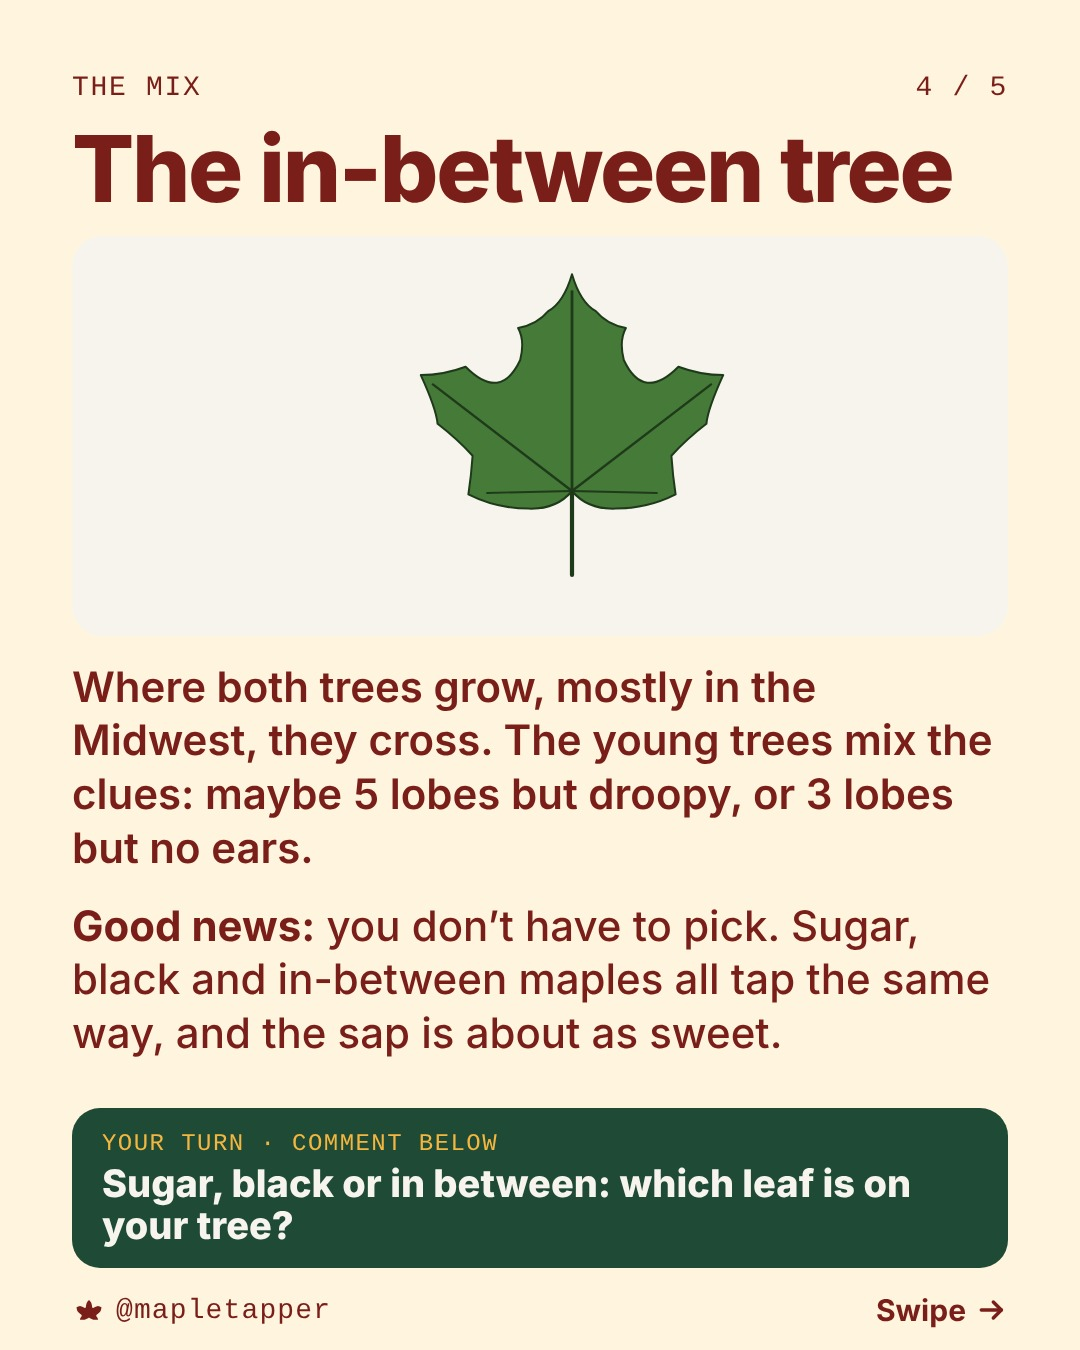
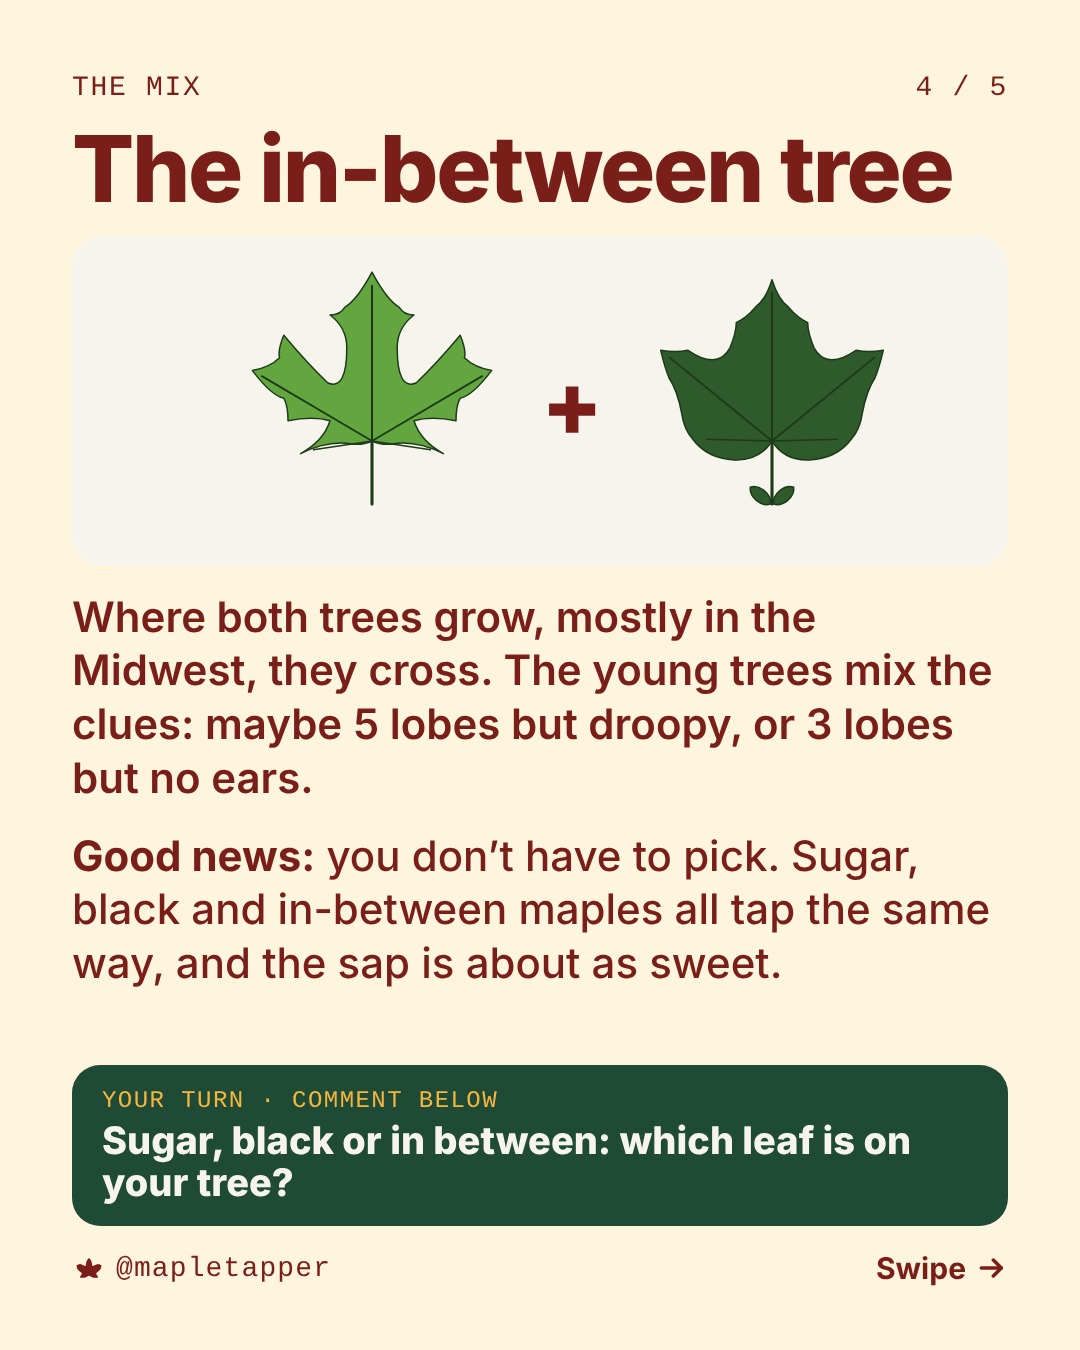
Sugar vs black maple post: distinct leaf drawings (5 pointed lobes vs 3 broad lobes)
Claude-Session: https://claude.ai/code/session_017NLj45a1qDV5TV81jo9qe1

Changed region(s): [[0.0611, 0.1867, 0.9472, 0.9956]]

diff --git a/studio/maples3.py b/studio/maples3.py
@@ -12,12 +12,14 @@ from closing import card
 from blackmaple01 import HALF as BLACK, YS
 
 M, CR, G, R = C["maroon"], C["cream"], C["gold"], C["red"]
-SUGAR = [("Q", 0.10, 0.06, 0.26, 0.06), ("Q", 0.46, 0.07, 0.72, 0.06), ("Q", 0.60, -0.08, 0.56, -0.20),
-         ("Q", 0.74, -0.22, 0.94, -0.30), ("Q", 0.92, -0.40, 1.10, -0.66), ("Q", 0.92, -0.68, 0.72, -0.76),
-         ("Q", 0.50, -0.50, 0.34, -0.82), ("Q", 0.33, -0.93, 0.43, -1.00), ("Q", 0.26, -1.00, 0.18, -1.08),
-         ("Q", 0.06, -1.12, 0.0, -1.30)]
-MIX = [("Q",) + tuple((a + b) / 2 for a, b in zip(s[1:], k[1:])) for s, k in zip(SUGAR, BLACK)]
-GREENS = {"sugar": "#4F8A3C", "mix": "#467A38", "black": "#3A6832"}
+# Sugar maple: 5 separate pointed lobes, deep rounded U notches, a few pointed teeth, nearly flat base.
+SUGAR = [("Q", 0.10, 0.04, 0.22, 0.02), ("Q", 0.44, 0.00, 0.68, 0.10), ("Q", 0.46, 0.00, 0.40, -0.16),
+         ("Q", 0.56, -0.20, 0.80, -0.16), ("Q", 0.80, -0.28, 0.84, -0.34), ("Q", 0.96, -0.36, 1.14, -0.56),
+         ("Q", 0.98, -0.58, 0.88, -0.66), ("Q", 0.90, -0.72, 0.84, -0.84), ("Q", 0.62, -0.62, 0.42, -0.46),
+         ("Q", 0.24, -0.40, 0.24, -0.74), ("Q", 0.24, -0.90, 0.40, -1.00), ("Q", 0.30, -1.00, 0.26, -1.06),
+         ("Q", 0.14, -1.12, 0.0, -1.34)]
+VT = {id(SUGAR): ((1.14, -0.56), (0.68, 0.10)), id(BLACK): ((1.06, -0.72), (0.76, -0.02))}
+GREENS = {"sugar": "#63A63F", "black": "#2F5A2B"}
 VEIN = "#1E3A1A"
 
 
@@ -31,10 +33,10 @@ def leaf(half, u, ox, oy, fill, ears=False, stem=0.75):
         d.append("Q%s %s" % (P(-c[1], c[2]), P(-ex, ey)))
     blade = f'<path d="{" ".join(d)} Z" fill="{fill}" stroke="{VEIN}" style="stroke-width:{f(u * 0.014)};stroke-linejoin:round"></path>'
     ln = lambda a, b, w: f'<path d="M{P(*a)} L{P(*b)}" stroke="{VEIN}" fill="none" style="stroke-width:{f(u * w)};stroke-linecap:round"></path>'
-    tip, lat, bas = half[-1], half[4], half[1]
+    tip = half[-1]; lat, bas = VT[id(half)]
     veins = ln((0, 0), (0, tip[4] * 0.92), 0.02)
     for sg in (1, -1):
-        veins += ln((0, 0), (sg * lat[3] * 0.92, lat[4] * 0.92), 0.017) + ln((0, 0), (sg * bas[3] * 0.82, bas[4] * 0.6), 0.013)
+        veins += ln((0, 0), (sg * lat[0] * 0.92, lat[1] * 0.92), 0.017) + ln((0, 0), (sg * bas[0] * 0.82, bas[1] * 0.7), 0.013)
     by = oy + stem * u
     stm = f'<path d="M{f(ox)} {f(oy)} L{f(ox)} {f(by)}" stroke="{VEIN}" fill="none" style="stroke-width:{f(u * 0.03)};stroke-linecap:round"></path>'
     ear = ""
@@ -49,13 +51,17 @@ def svg(w, h, inner, extra=""):
 
 
 def slide1():
-    row = (leaf(SUGAR, 150, 190, 340, GREENS["sugar"]) + leaf(MIX, 150, 540, 340, GREENS["mix"]) + leaf(BLACK, 150, 890, 340, GREENS["black"], ears=True))
-    labels = "".join(f'<div style="position: absolute; left: {x - 150}px; top: 1030px; width: 300px; text-align: center; font-family: {DISPLAY}; '
-                     f'font-weight: 800; font-size: 40px; color: {NAVY}">{t}</div>' for x, t in ((195, "Sugar"), (540, "In between"), (885, "Black")))
+    row = leaf(SUGAR, 205, 285, 400, GREENS["sugar"]) + leaf(BLACK, 205, 795, 400, GREENS["black"], ears=True)
+    def lab(x, name, l1, l2):
+        return (f'<div style="position: absolute; left: {x - 240}px; top: 1010px; width: 480px; text-align: center; color: {NAVY}">'
+                f'<div style="font-family: {DISPLAY}; font-weight: 800; font-size: 50px; line-height: 1">{name}</div>'
+                f'<div style="font-family: {DISPLAY}; font-weight: 600; font-size: 34px; line-height: 1.2; margin-top: 8px">{l1}<br>{l2}</div></div>')
     inner = (f'<div style="position: absolute; left: 56px; top: 60px">{tag("Leaf detective", NAVY, G, 30)}</div>'
-             f'<div style="position: absolute; left: 56px; top: 140px; width: 960px">' + headline("Sugar maple,<br>black maple,<br>or in between?", 104, NAVY, chk="title") + "</div>"
-             + svg(1080, 520, row, "; position: absolute; left: 0; top: 520px") + labels + handle(NAVY) + logo_badge(bg="#FFFFFF"))
-    return rootdiv(SKY, inner), "Sugar maple, black maple, or in between?"
+             f'<div style="position: absolute; left: 56px; top: 140px; width: 960px">' + headline("Sugar maple or<br>black maple?", 112, NAVY, chk="title") + "</div>"
+             + svg(1080, 620, row, "; position: absolute; left: 0; top: 400px")
+             + lab(285, "Sugar", "5 pointed lobes", "deep notches") + lab(795, "Black", "3 broad lobes", "shallow notches")
+             + handle(NAVY) + logo_badge(bg="#FFFFFF", size=120, bottom=36))
+    return rootdiv(SKY, inner), "Sugar maple or black maple?"
 
 
 def profile(n, kick, head, half, fill, ears, items, bg, note=None):
@@ -74,7 +80,7 @@ def profile(n, kick, head, half, fill, ears, items, bg, note=None):
 
 def slide2():
     return profile(2, "The classic", "Sugar maple", SUGAR, GREENS["sugar"], False,
-                   ["Usually 5 lobes", "Deep, rounded U-shaped notches", "Leaf lies flat", "Stem base is bare: no “ears”"], CR), "Sugar maple leaf"
+                   ["5 pointed lobes", "Deep, rounded U-shaped notches", "Leaf lies flat", "Stem base is bare: no “ears”"], CR), "Sugar maple leaf"
 
 
 def slide3():
@@ -83,8 +89,9 @@ def slide3():
 
 
 def slide4():
-    pic = (f'<div data-chk="pic" style="height: 400px; border-radius: 30px; background: {SNOW}; flex: none; position: relative; overflow: hidden">'
-           + svg(1000, 400, leaf(MIX, 140, 500, 255, GREENS["mix"], stem=0.6)) + "</div>")
+    pic = (f'<div data-chk="pic" style="height: 330px; border-radius: 30px; background: {SNOW}; flex: none; position: relative; overflow: hidden">'
+           + svg(1000, 330, leaf(SUGAR, 105, 300, 205, GREENS["sugar"], stem=0.6) + leaf(BLACK, 105, 700, 205, GREENS["black"], ears=True, stem=0.6)
+                 + f'<text x="500" y="200" text-anchor="middle" style="font-family: {DISPLAY}; font-weight: 800; font-size: 90px; fill: {M}">+</text>') + "</div>")
     cta = (f'<div data-chk="cta" style="background: {PINE}; color: {SNOW}; border-radius: 28px; padding: 22px 30px">'
            f'<div style="font-family: {TYPE}; font-size: 24px; letter-spacing: .06em; text-transform: uppercase; color: {G}">Your turn · comment below</div>'
            f'<div style="font-family: {DISPLAY}; font-weight: 800; font-size: 38px; line-height: 1.1; margin-top: 6px">Sugar, black or in between: which leaf is on your tree?</div></div>')
